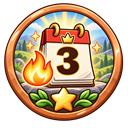
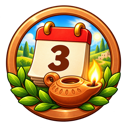
Jatek frissitve - 2026-10-15 13:54

diff --git a/play.html b/play.html
@@ -1075,7 +1075,7 @@ if(window.__btIntroVar) window.__btIndit=adatIndit; else adatIndit();
 <script>
 function indul(C){
 'use strict';
-var IMGS = ["app-icon","badge-c100","badge-c1000","badge-c250","badge-c2500","badge-c50","badge-c500","badge-cards","badge-cards1","badge-cards10","badge-cards20","badge-cards35","badge-cards5","badge-cards50","badge-cards70","badge-chests1","badge-chests10","badge-chests100","badge-chests25","badge-chests5","badge-chests50","badge-days14","badge-days180","badge-days3","badge-days30","badge-days365","badge-days60","badge-days7","badge-days90","badge-first","badge-firstchest","badge-firsthero","badge-firstolivia","badge-firstpart","badge-firstperfect","badge-firststory","badge-module","badge-perfect1","badge-perfect10","badge-perfect100","badge-perfect50","badge-streak","badge-streak100","badge-streak14","badge-streak3","badge-streak30","badge-streak60","badge-streak7","badge-week","badge-xp100","badge-xp1000","badge-xp10000","badge-xp100000","badge-xp2000","badge-xp20000","badge-xp250","badge-xp250000","badge-xp500","badge-xp5000","badge-xp50000","badge-xp500000","boost-15","boost-2","cal-done","cal-shield","card-m1-well","card-m2-blood","card-m2-chest","card-m2-quail","card-m2-rod","card-m2-tent","card-m2-water","card-m3-fleece","card-m3-palm","card-m3-pillars","card-m3-refuge","card-m3-sandal","card-m3-scarlet","card-m3-stones","card-m3-sun","card-m3-torch","card-m4-altar","card-m4-chariot","card-m4-horn","card-m4-jar","card-m4-oil","card-m4-river","card-m4-scroll","card-m4-temple","card-m4-whisper","card-m5-book","card-m5-crown","card-m5-den","card-m5-furnace","card-m5-harp","card-m5-lamp","card-m5-plate","card-m5-proverb","card-m5-psalm","card-m5-sceptre","card-m5-wall","card-m5-writing","card-m6-coin","card-m6-crown6","card-m6-donkey","card-m6-net","card-m6-stone6","card-m6-water6","card-m7-chains","card-m7-cloth","card-m7-light","card-m7-scroll","card-m7-sheet","card-m7-snake","card-m7-song","card-m8-anchor","card-m8-armour","card-m8-cloud","card-m8-fruit","card-m8-heart","card-m8-lamb8","card-m8-letter","card-m8-prayer","card-m8-race","card-m8-tree","card-m8-wreath","card-u1-apple","card-u1-ark","card-u1-babel","card-u1-lamb","card-u1-rainbow","card-u1-tree","card-u2-coat","card-u2-grain","card-u2-ladder","card-u2-ram","card-u2-ring","card-u2-stars","card-u3-basket","card-u3-bush","card-u3-frog","card-u3-manna","card-u3-sea","card-u3-tablets","card-u4-crown","card-u4-harp","card-u4-lion","card-u4-sling","card-u4-trumpet","card-u4-wheat","card-u5-bethlehem","card-u5-bread","card-u5-cup","card-u5-dawn","card-u5-fish","card-u5-gifts","card-u6-church","card-u6-city","card-u6-dove","card-u6-flame","card-u6-letters","card-u6-ship","chest-closed","chest-open","dove-cheer","dove-egg","dove-gold","dove-sad","dove-sleep","dove-teach","dove-wave","hero-aaron","hero-abel","hero-abigail","hero-abraham","hero-adam","hero-asaph","hero-barnabas","hero-bezalel","hero-cornelius","hero-daniel","hero-david","hero-deborah","hero-elijah","hero-esther","hero-eve","hero-ezra","hero-gideon","hero-jacob","hero-jethro","hero-john","hero-john-baptist","hero-joseph","hero-joseph-nazareth","hero-joshua","hero-luke","hero-lydia","hero-mark","hero-mary","hero-matthew","hero-miriam","hero-mordecai","hero-moses","hero-nathan","hero-nehemiah","hero-noah","hero-paul","hero-peter","hero-philip","hero-phoebe","hero-priscilla","hero-rahab","hero-ruth","hero-samson","hero-samuel","hero-sarah","hero-shiphrah","hero-simeon","hero-solomon","hero-stephen","hero-tabitha","hero-three-friends","hero-timothy","hero-titus","hero-zechariah","icon-heart","icon-streak","icon-talent","nav-collection","nav-menu","nav-path","nav-stats","node-lock","node-story","node-task","result-fail","result-success","shop-hearts","shop-shield","star-empty","star-full","star-half","talent-big","test-levelup","test-levelup-done","unit-u1","unit-u2","unit-u3","unit-u4","unit-u5","unit-u6","unit-u7","unit-u8"];
+var IMGS = ["app-icon","badge-c100","badge-c1000","badge-c250","badge-c2500","badge-c50","badge-c500","badge-cards","badge-cards1","badge-cards10","badge-cards20","badge-cards35","badge-cards5","badge-cards50","badge-cards70","badge-chests1","badge-chests10","badge-chests100","badge-chests25","badge-chests5","badge-chests50","badge-days14","badge-days180","badge-days3","badge-days30","badge-days365","badge-days60","badge-days7","badge-days90","badge-first","badge-firstchest","badge-firsthero","badge-firstolivia","badge-firstpart","badge-firstperfect","badge-firststory","badge-module","badge-perfect1","badge-perfect10","badge-perfect100","badge-perfect50","badge-streak","badge-streak100","badge-streak14","badge-streak3","badge-streak30","badge-streak60","badge-streak7","badge-week","badge-xp100","badge-xp1000","badge-xp10000","badge-xp100000","badge-xp2000","badge-xp20000","badge-xp250","badge-xp250000","badge-xp500","badge-xp5000","badge-xp50000","badge-xp500000","boost-15","boost-2","cal-done","cal-shield","card-m1-well","card-m2-blood","card-m2-chest","card-m2-quail","card-m2-rod","card-m2-tent","card-m2-water","card-m3-fleece","card-m3-palm","card-m3-pillars","card-m3-refuge","card-m3-sandal","card-m3-scarlet","card-m3-stones","card-m3-sun","card-m3-torch","card-m4-altar","card-m4-chariot","card-m4-horn","card-m4-jar","card-m4-oil","card-m4-river","card-m4-scroll","card-m4-temple","card-m4-whisper","card-m5-book","card-m5-crown","card-m5-den","card-m5-furnace","card-m5-harp","card-m5-lamp","card-m5-plate","card-m5-proverb","card-m5-psalm","card-m5-sceptre","card-m5-wall","card-m5-writing","card-m6-coin","card-m6-crown6","card-m6-donkey","card-m6-net","card-m6-stone6","card-m6-water6","card-m7-chains","card-m7-cloth","card-m7-light","card-m7-scroll","card-m7-sheet","card-m7-snake","card-m7-song","card-m8-anchor","card-m8-armour","card-m8-cloud","card-m8-fruit","card-m8-heart","card-m8-lamb8","card-m8-letter","card-m8-prayer","card-m8-race","card-m8-tree","card-m8-wreath","card-u1-apple","card-u1-ark","card-u1-babel","card-u1-lamb","card-u1-rainbow","card-u1-tree","card-u2-coat","card-u2-grain","card-u2-ladder","card-u2-ram","card-u2-ring","card-u2-stars","card-u3-basket","card-u3-bush","card-u3-frog","card-u3-manna","card-u3-sea","card-u3-tablets","card-u4-crown","card-u4-harp","card-u4-lion","card-u4-sling","card-u4-trumpet","card-u4-wheat","card-u5-bethlehem","card-u5-bread","card-u5-cup","card-u5-dawn","card-u5-fish","card-u5-gifts","card-u6-church","card-u6-city","card-u6-dove","card-u6-flame","card-u6-letters","card-u6-ship","chest-closed","chest-open","dove-cheer","dove-egg","dove-gold","dove-sad","dove-sleep","dove-teach","dove-wave","hero-aaron","hero-abel","hero-abigail","hero-abraham","hero-adam","hero-asaph","hero-barnabas","hero-bezalel","hero-cornelius","hero-daniel","hero-david","hero-deborah","hero-elijah","hero-esther","hero-eve","hero-ezra","hero-gideon","hero-jacob","hero-jethro","hero-john","hero-john-baptist","hero-joseph","hero-joseph-nazareth","hero-joshua","hero-luke","hero-lydia","hero-mark","hero-mary","hero-matthew","hero-miriam","hero-mordecai","hero-moses","hero-nathan","hero-nehemiah","hero-noah","hero-paul","hero-peter","hero-philip","hero-phoebe","hero-priscilla","hero-rahab","hero-ruth","hero-samson","hero-samuel","hero-sarah","hero-shiphrah","hero-simeon","hero-solomon","hero-stephen","hero-tabitha","hero-three-friends","hero-timothy","hero-titus","hero-zechariah","icon-heart","icon-lamp","icon-streak","icon-talent","nav-collection","nav-menu","nav-path","nav-stats","node-lock","node-story","node-task","result-fail","result-success","shop-hearts","shop-shield","star-empty","star-full","star-half","talent-big","test-levelup","test-levelup-done","unit-u1","unit-u2","unit-u3","unit-u4","unit-u5","unit-u6","unit-u7","unit-u8"];
 // Artwork lives in docs/img; anything missing falls back to the drawn/emoji version.
 function hasImg(n){ return IMGS.indexOf(n)>=0; }
 function img(n,cls){ return hasImg(n)?'<img class="'+(cls||'')+'" src="img/'+n+'.png" alt="" draggable="false">':null; }

diff --git a/index.html b/index.html
@@ -1,7 +1,7 @@
 <!doctype html><html lang="hu"><head><meta charset="utf-8">
 <meta name="viewport" content="width=device-width,initial-scale=1">
 <meta name="robots" content="noindex,nofollow,noarchive">
-<meta http-equiv="refresh" content="0; url=play.html?v=202610151334">
+<meta http-equiv="refresh" content="0; url=play.html?v=202610151354">
 <title>Bibliaút</title></head>
-<body><p>Betöltés… <a href="play.html?v=202610151334">Bibliaút megnyitása</a></p>
-<script>location.replace('play.html?v=202610151334');</script></body></html>
+<body><p>Betöltés… <a href="play.html?v=202610151354">Bibliaút megnyitása</a></p>
+<script>location.replace('play.html?v=202610151354');</script></body></html>
